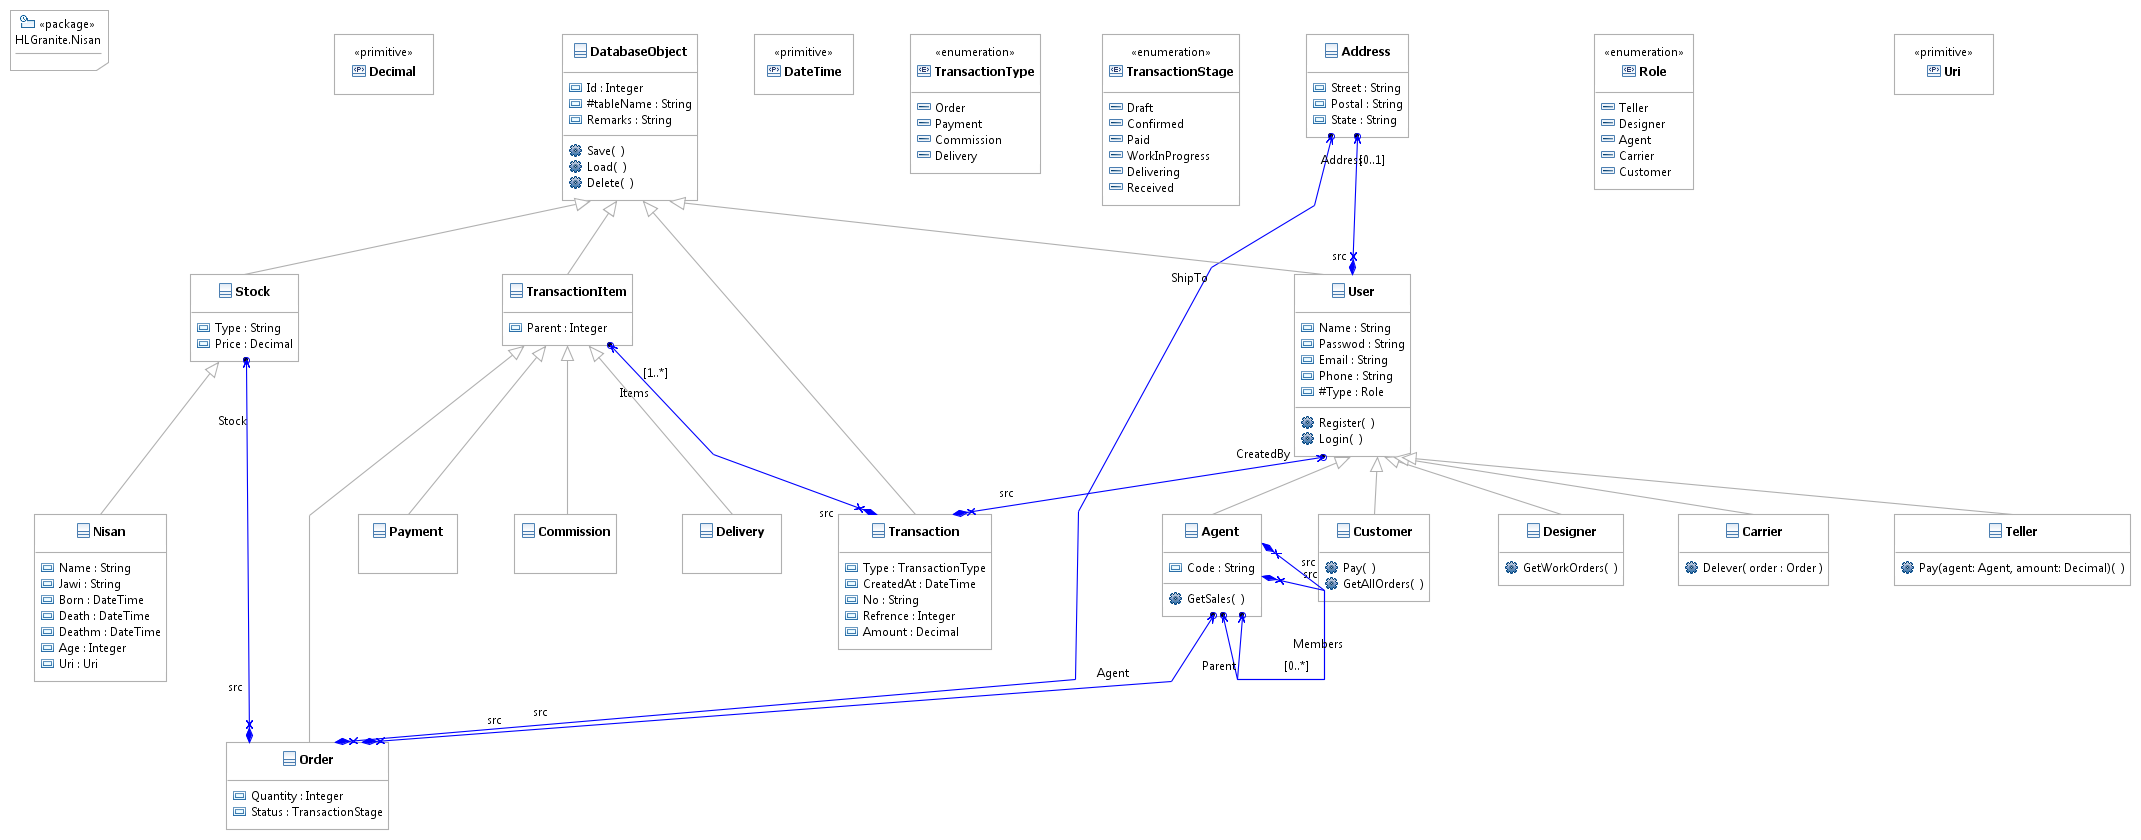
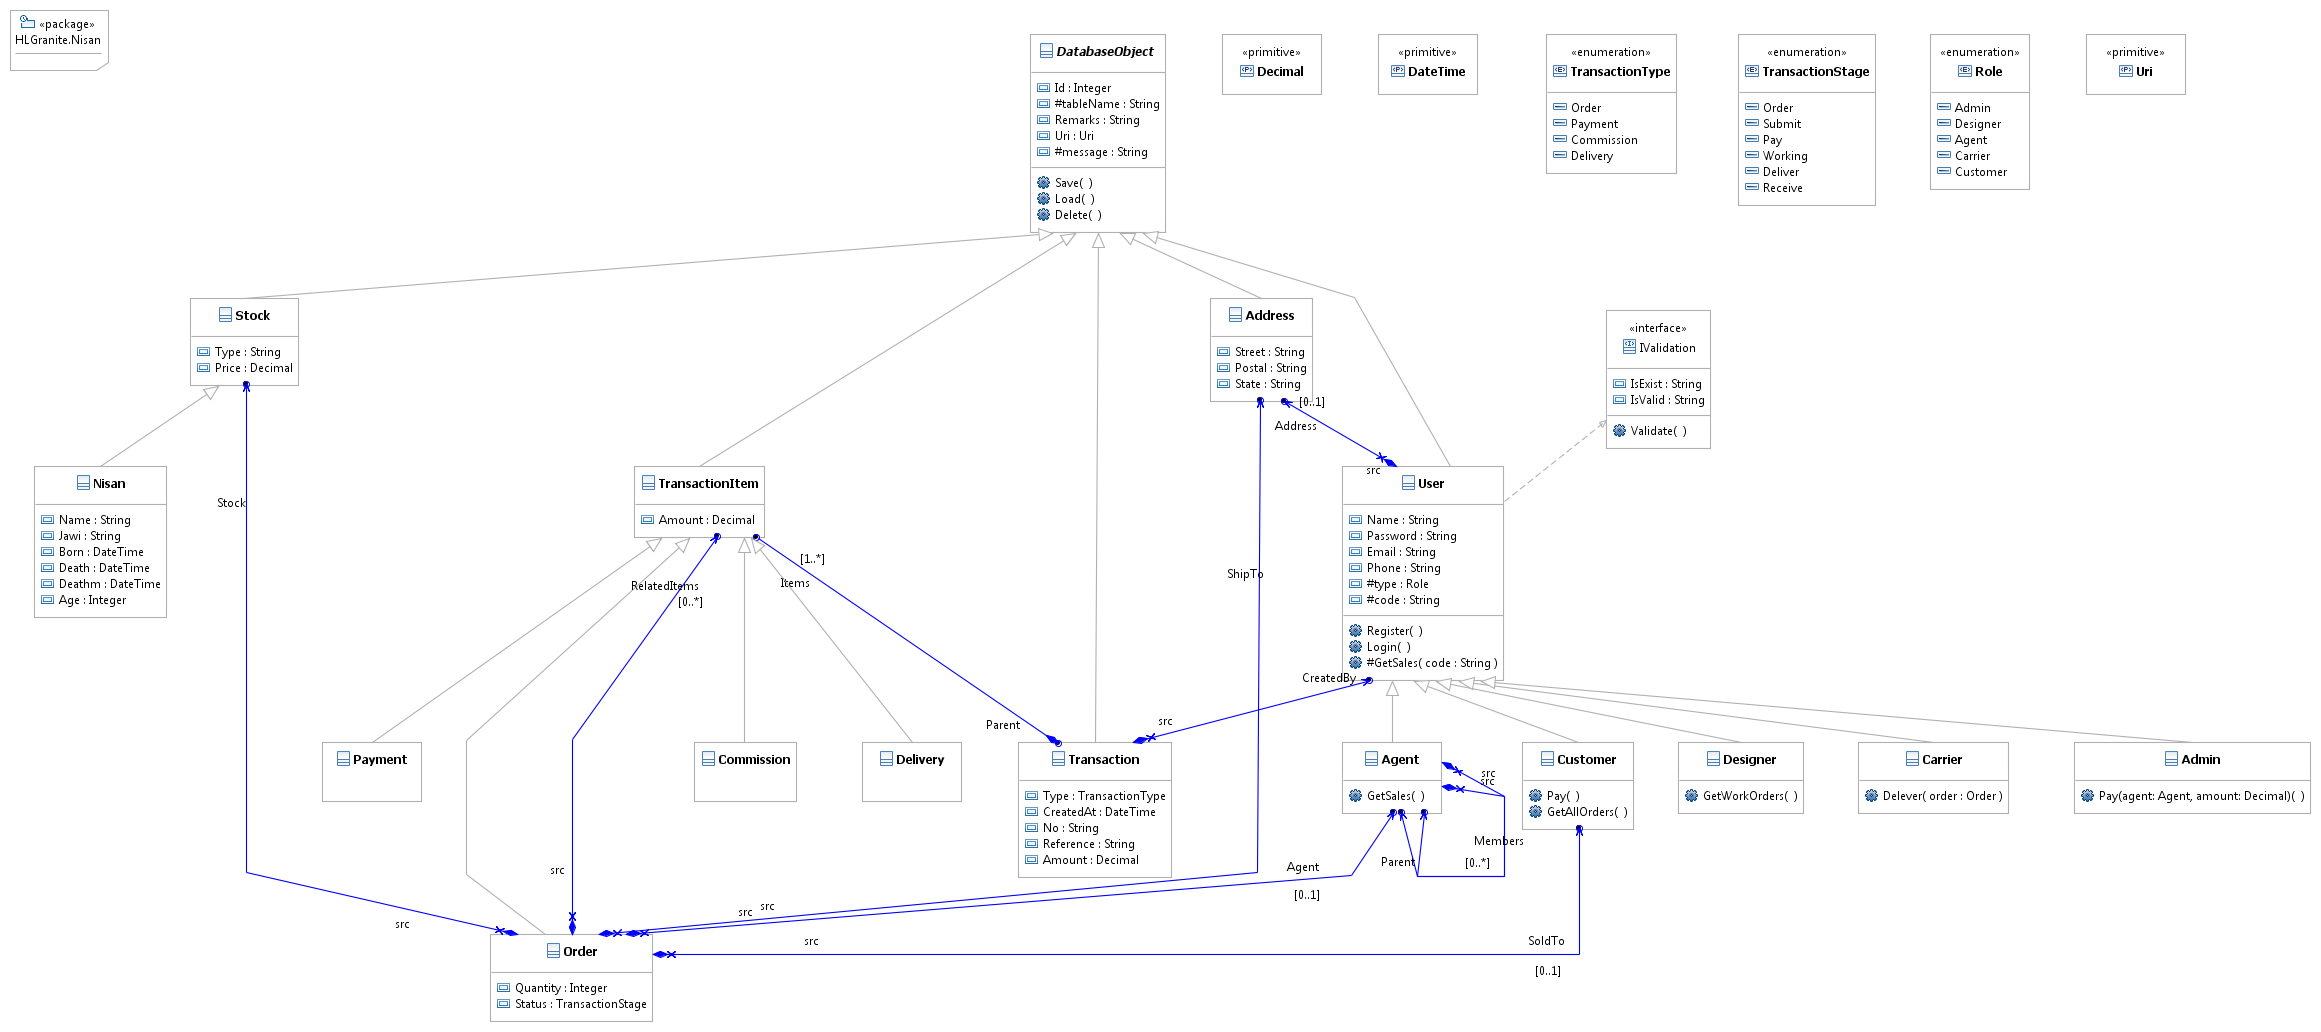
after user login redirect to list page. if found an order but with no nisan tight to it just don't bind the page.

diff --git a/NisanWeb/Default.aspx.cs b/NisanWeb/Default.aspx.cs
@@ -72,9 +72,9 @@ public partial class _Default : System.Web.UI.Page
         Order order = new Order();
         order = order.Find(name);
         if (order == null) return;
+        if ((order.Stock as Nisan) == null) return;
 
         imgStatus.ImageUrl = string.Format("Images/{0}.png", order.Status.ToString().ToLower());
-
         Nisan nisan = order.Stock as Nisan;
         ddlStock.SelectedValue = new Stock(order.Stock.Type).Id.ToString();//todo: what not just order.Stock.Id
         txtName.Text = nisan.Name;
@@ -85,11 +85,17 @@ public partial class _Default : System.Web.UI.Page
         txtYear.Text = nisan.Deathm.Year.ToString();
         txtRemarks.Text = nisan.Remarks;
 
-        //txtEmail.Text = 
         if (order.Agent != null)
         {
+            txtCustomer.Text = order.Agent.Name;
             txtEmail.Text = order.Agent.Email;
             txtPhone.Text = order.Agent.Phone;
+        }
+        if (order.Customer != null)
+        {
+            txtCustomer.Text = order.Customer.Name;
+            txtEmail.Text = order.Customer.Email;
+            txtPhone.Text = order.Customer.Phone;
         }
         if (order.ShipTo != null)
         {
@@ -148,32 +154,27 @@ public partial class _Default : System.Web.UI.Page
     private void EnableForm(bool enabled)
     {
         ddlStock.Enabled = enabled;
-        txtName.Enabled = enabled;
-        txtJawi.Enabled = enabled;
-        txtDeath.Enabled = enabled;
+        txtName.ReadOnly = !enabled;
+        txtJawi.ReadOnly = !enabled;
+        txtDeath.ReadOnly = !enabled;
         btnDeath.Enabled = enabled;
         ddlDay.Enabled = enabled;
         ddlMonth.Enabled = enabled;
-        txtYear.Enabled = enabled;
-        txtRemarks.Enabled = enabled;
-        txtAgent.Enabled = enabled;
+        txtYear.ReadOnly = !enabled;
+        txtRemarks.ReadOnly = !enabled;
+        txtAgent.ReadOnly = !enabled;
 
-        txtCustomer.Enabled = enabled;
-        txtEmail.Enabled = enabled;
-        txtPhone.Enabled = enabled;
-        txtAddress.Enabled = enabled;
-        txtPostal.Enabled = enabled;
+        txtCustomer.ReadOnly = !enabled;
+        txtEmail.ReadOnly = !enabled;
+        txtPhone.ReadOnly = !enabled;
+        txtAddress.ReadOnly = !enabled;
+        txtPostal.ReadOnly = !enabled;
         ddlState.Enabled = enabled;
 
         btnSubmit.Enabled = enabled;
     }
     private void Submit()
     {
-        Address address = new Address();
-        address.Street = txtAddress.Text;
-        address.Postal = txtPostal.Text;
-        address.State = ddlState.Text;
-
         stockId = Convert.ToInt32(ddlStock.SelectedValue);
         HLGranite.Nisan.Stock stock = new HLGranite.Nisan.Stock(stockId);
         Nisan nisan = new Nisan(stock);
@@ -184,14 +185,51 @@ public partial class _Default : System.Web.UI.Page
 
         Order target = new Order();
         target.Status = TransactionStage.Submit;
-        if (user is Agent)
-            target.Agent = user as Agent;
+        if (user == null)
+        {
+            Customer customer = new Customer();
+            customer.Name = txtCustomer.Text;
+            customer.Email = txtEmail.Text;
+            customer.Phone = txtPhone.Text;
+
+            target.Customer = customer;
+            target.Parent.CreatedBy = customer;
+        }
+        else
+        {
+            if (txtCustomer.Text.Trim() != user.Name)
+            {
+                Customer customer = new Customer();
+                customer.Name = txtCustomer.Text;
+                customer.Email = txtEmail.Text;
+                customer.Phone = txtPhone.Text;
+
+                target.Customer = customer;
+                target.Parent.CreatedBy = customer;
+            }
+            else if (user is Agent)
+            {
+                target.Agent = (user as Agent);
+                target.Parent.CreatedBy = (user as Agent);
+            }
+        }
+
         target.Amount = stock.Price;
         target.Quantity = 1;
         target.Stock = nisan;
+
+        Address address = new Address();
+        address.Street = txtAddress.Text;
+        address.Postal = txtPostal.Text;
+        address.State = ddlState.Text;
         target.ShipTo = address;
+
         bool success = target.Save();
-        if (success) EnableForm(false);
+        if (success)
+        {
+            lblMessage.Text = "Your order has been sent to us and we will contact you shortly.";
+            EnableForm(false);
+        }
     }
 
     protected void Submit_Click(object sender, EventArgs e)

diff --git a/HLGranite.Nisan/Order.cs b/HLGranite.Nisan/Order.cs
@@ -1,7 +1,12 @@
 using System;
+using System.Collections;
 using System.Collections.Generic;
 using System.Text;
 using System.Data.Common;
+using System.Net;
+using System.Net.Mail;
+using System.Web;
+//using System.Web.Mail;
 
 namespace HLGranite.Nisan
 {
@@ -25,6 +30,7 @@ namespace HLGranite.Nisan
             {
                 if (this.Parent.CreatedBy is Customer)
                     this.Parent.CreatedBy.Save();
+
                 //insert into table Transactions
                 this.Parent.CreatedAt = DateTime.Now;
                 if (this.Parent.CreatedBy == null || this.Parent.CreatedBy.Name.Length == 0)
@@ -97,6 +103,12 @@ namespace HLGranite.Nisan
                 }//end
             }
 
+            if (success)
+            {
+                User user = new User();
+                foreach (User u in user.GetAdmin())
+                    SendMail(u.Email);
+            }
             return success;
         }
         public List<Order> Own(string owner)
@@ -191,6 +203,67 @@ ORDER BY Transactions.CreatedAt DESC";
             int month = Convert.ToInt32(date.Substring(5, 2));
             int day = Convert.ToInt32(date.Substring(8, 2));
             return new DateTime(year, month, day);
+        }
+
+        private string ComposeSubject()
+        {
+            string output = string.Empty;
+            if (this.Agent != null) output += this.Agent.Code;
+            if (output.Length > 0) output += ": ";
+
+            output += this.Stock.Type + " - ";
+            output += (this.Stock as Nisan).Name;
+            return output;
+        }
+        /// <summary>
+        /// TODO: Continue compose email content.
+        /// </summary>
+        /// <returns></returns>
+        private string ComposeBody()
+        {
+            //string output = string.Empty;
+            string output = "Please ignore this just a testing<p/>";//todo: remove
+            if (this.Agent != null) output += string.Format("<h2>{0}</h2>", this.Agent.Code);
+            output += string.Format("<h2>{0}</h2>", this.Stock.Type);
+
+            Nisan nisan = this.Stock as Nisan;
+            output += string.Format("Name: {0}<br/>", nisan.Name);
+            output += string.Format("Jawi: {0}<br/>", nisan.Jawi);
+            output += string.Format("Death: {0}<br/>", nisan.Death.ToString("dd/MM/yyyy"));
+            output += string.Format("Muslim: {0}<p/>", nisan.Deathm.ToString("dd/MM/yyyy"));
+
+            output += "<h2>Delivery To:</h2>";
+            if (this.Customer != null) output += string.Format("Email: {0}<br/>", this.Customer.Email);
+            output += string.Format("{0}<br/>", this.ShipTo.Street);
+            output += string.Format("{0}<br/>", this.ShipTo.Postal);
+            output += string.Format("{0}<br/>", this.ShipTo.State);
+
+            return output;
+        }
+        /// <summary>
+        /// Notify admin with email after new order made.
+        /// </summary>
+        /// <seealso>http://infynet.wordpress.com/2011/12/05/sending-email-using-asp-net-and-gmailhotmail/</seealso>
+        private void SendMail(string receipient)
+        {
+            try
+            {
+                MailMessage mail = new MailMessage(
+                    "hlgranite@gmail.com",receipient,
+                    ComposeSubject(), ComposeBody());
+                mail.IsBodyHtml = true;
+                NetworkCredential mailAuthentication = new NetworkCredential("yancyn@hotmail.com", "55175216");
+                SmtpClient mailClient = new SmtpClient("smtp.live.com", 587);
+                mailClient.EnableSsl = true;
+                mailClient.UseDefaultCredentials = false;
+                mailClient.Credentials = mailAuthentication;
+                mailClient.Send(mail);
+            }
+            catch (Exception ex)
+            {
+                System.Diagnostics.Debug.WriteLine(ex);
+                return;
+            }
         }
     }
 }

diff --git a/HLGranite.Nisan/User.cs b/HLGranite.Nisan/User.cs
@@ -144,7 +144,7 @@ JOIN Stocks ON Nisans.Type = Stocks.Id
 JOIN TransactionItems ON Orders.ItemId=TransactionItems.Id
 JOIN Transactions ON TransactionItems.Parent=Transactions.Id
 JOIN Users ON Transactions.CreatedBy=Users.Id";
-                    if(code != null && code.Length>0)
+                    if (code != null && code.Length > 0)
                         sql += " WHERE Users.Code=@Code;";
                     command.CommandText = sql;
                     if (code != null && code.Length > 0)
@@ -160,9 +160,8 @@ JOIN Users ON Transactions.CreatedBy=Users.Id";
                             Order order = new Order();
                             order.Parent = parent;
                             order.Status = (TransactionStage)Convert.ToInt32(reader["Status"]);
-                            if (this is Agent)
-                                order.Agent = (this as Agent);
-                            else
+
+                            if (reader["Code"] != DBNull.Value && reader["Code"].ToString().Length>0)
                                 order.Agent = new Agent(reader["Code"].ToString());
                             order.Id = Convert.ToInt32(reader["TransactionItemId"]);
                             order.Amount = Convert.ToDecimal(reader["Amount"]);
@@ -199,6 +198,46 @@ JOIN Users ON Transactions.CreatedBy=Users.Id";
             }//end
 
             return sales;
+        }
+        public List<User> GetAdmin()
+        {
+            List<User> result = new List<User>();
+            using (DbConnection connection = factory.CreateConnection())
+            {
+                connection.ConnectionString = connectionString;
+                connection.Open();
+                using (DbCommand command = connection.CreateCommand())
+                {
+                    command.CommandType = System.Data.CommandType.Text;
+                    command.CommandText = "SELECT * FROM Users WHERE Type = 0;";
+                    using (DbDataReader reader = command.ExecuteReader())
+                    {
+                        while (reader.Read())
+                        {
+                            User user = new User();
+                            user.Id = Convert.ToInt32(reader["Id"]);
+                            user.Code = reader["Code"].ToString();
+                            user.Name = reader["Name"].ToString();
+                            user.Password = reader["Password"].ToString();
+                            user.Email = reader["Email"].ToString();
+                            user.Phone = reader["Phone"].ToString();
+                            user.Remarks = reader["Remarks"].ToString();
+                            user.Uri = reader["Uri"].ToString();
+                            if (reader["AddressId"] != DBNull.Value)
+                            {
+                                int addressId = Convert.ToInt32(reader["AddressId"]);
+                                if (addressId > 0) user.Address = new Address(addressId);
+                            }
+
+                            result.Add(user);
+                        }
+                    }
+                }
+
+                connection.Close();
+            }//end
+
+            return result;
         }
 
         #region DatabaseObject methods

diff --git a/HLGranite.Nisan/Stock.cs b/HLGranite.Nisan/Stock.cs
@@ -13,8 +13,8 @@ namespace HLGranite.Nisan
         public Stock()
             : base()
         {
-            Initialize();
             System.Diagnostics.Debug.WriteLine("-- Stock --");
+            Initialize();
         }
         /// <summary>
         /// Constructor for retrieve.
@@ -23,10 +23,10 @@ namespace HLGranite.Nisan
         public Stock(int id)
             : base()
         {
+            System.Diagnostics.Debug.WriteLine("-- Stock --");
             Initialize();
             this.idField = id;
             this.Load();
-            System.Diagnostics.Debug.WriteLine("-- Stock --");
         }
         /// <summary>
         /// Constructor for retrieve.
@@ -35,10 +35,10 @@ namespace HLGranite.Nisan
         public Stock(string name)
             : base()
         {
+            System.Diagnostics.Debug.WriteLine("-- Stock --");
             Initialize();
             this.typeField = name;
             this.Load();
-            System.Diagnostics.Debug.WriteLine("-- Stock --");
         }
 
         private void Initialize()

diff --git a/NisanWeb/MasterPage.master.cs b/NisanWeb/MasterPage.master.cs
@@ -18,7 +18,9 @@ public partial class MasterPage : System.Web.UI.MasterPage
 
             user = (User)this.Session["User"];
             linUser.Text = user.Code;
-            if (user is Admin) Menu2.Visible = true;
+
+            Menu2.Visible = true;
+            if (user is Admin) Menu3.Visible = true;
         }
     }
     protected void btnSearch_Click(object sender, EventArgs e)
@@ -41,7 +43,9 @@ public partial class MasterPage : System.Web.UI.MasterPage
             linLogout.Visible = success;
             linUser.Visible = success;
 
-            if (user is Admin) Menu2.Visible = true;
+            Menu2.Visible = true;
+            if (user is Admin) Menu3.Visible = true;
+            Response.Redirect("~/List.aspx", false);
         }
     }
     protected void btnLogout_Click(object sender, EventArgs e)

diff --git a/HLGranite.Nisan/DataModel.designer.cs b/HLGranite.Nisan/DataModel.designer.cs
@@ -349,6 +349,8 @@ namespace HLGranite.Nisan
 
         private Agent agentField;
 
+        private Customer customerField;
+
         private List<TransactionItem> relatedItemsField;
 
         private int quantityField;
@@ -377,6 +379,12 @@ namespace HLGranite.Nisan
             {
                 this.agentField = value;
             }
+        }
+
+        public Customer Customer
+        {
+            get { return this.customerField; }
+            set { this.customerField = value; }
         }
 
         public List<TransactionItem> RelatedItems
